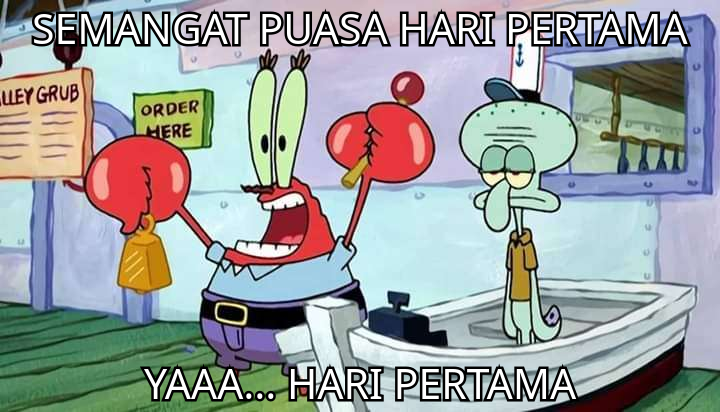
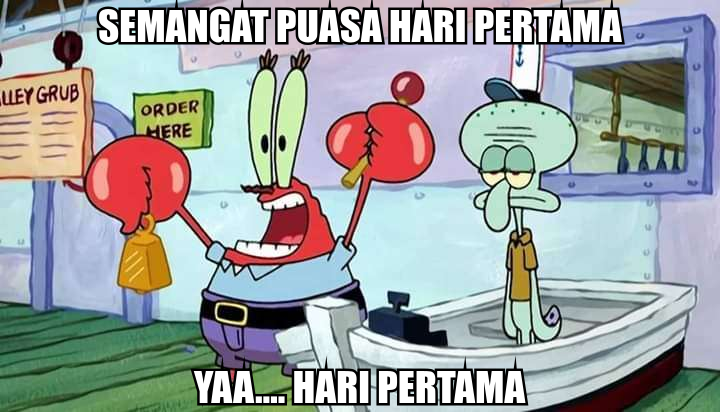
fix: font & improve cron schedule

Changed region(s): [[0.0306, 0.0, 0.9778, 0.1165], [0.1833, 0.8738, 0.825, 0.9903]]

diff --git a/index.js b/index.js
@@ -6,7 +6,6 @@ import Pino from "pino";
 import { Boom } from '@hapi/boom'
 
 
-import loadFont from "./utils/loadFont.js";
 import generateMeme from "./utils/meme.js";
 import connectDB, { mongoClient } from "./utils/db.js";
 import useMongoAuthState from "./utils/useMongoDbAuthState.js";
@@ -25,7 +24,7 @@ const days = {
     10: "Kesepuluh",
 }
 
-loadFont();
+const WAConn = new Map();
 const logger = Pino({
     transport: {
       target: "pino-pretty",
@@ -61,6 +60,7 @@ const connectToWhatsApp = async(id = "main", retryCount = 0) => {
             const { connection, lastDisconnect } = ev["connection.update"]
             if(connection === 'close') {
                 const statusCode = new Boom(lastDisconnect.error)?.output?.statusCode
+                WAConn.delete(id);
                 console.log('connection closed due to ', lastDisconnect.error, ', reconnecting ', statusCode)
                 if (statusCode === DisconnectReason.loggedOut){
                     // fs.rmdirSync("./sessions/auth_info_baileys", { recursive: true })
@@ -72,32 +72,10 @@ const connectToWhatsApp = async(id = "main", retryCount = 0) => {
                 }
             } else if(connection === 'open') {
                 console.log('opened connection');
+                WAConn.set(id, sock)
             }
         }
     });
-
-
-    cron.schedule(process.env.CRON, async () => {
-        try {
-            console.log("Uploading...")
-            const now = new Date();
-            const diff = (Math.floor((now.getTime() - start.getTime())/(1000*60*60*24))) + 1;
-            const [image, contacts] = await Promise.all([generateMeme("./assets/images/mr_crab.jpg", "SEMANGAT PUASA HARI " + (days[diff]?.toUpperCase() || "KE-" + diff), "YAA.... HARI " + (days[diff]?.toUpperCase() || "KE-" + diff)), mongoClient.db("contacts").collection(`session-${id}`).find().toArray()])
-            await sock.sendMessage("status@broadcast", {
-                image,
-                caption: "Gambar ini diunggah secara otomatis menggunakan https://github.com/fdvky1/reminder-bot"
-            }, {
-                statusJidList: [jidNormalizedUser(sock.user.id), ...contacts.map(v => v.jid)]
-            });
-        }catch(e){
-            console.log(e)
-        }finally{
-            console.log("Done");
-        }
-    }, {
-        scheduled: true,
-        timezone: "Asia/Jakarta",
-    })
 };
 
 connectDB(process.env.MONGO_URL).then(async () => {
@@ -125,4 +103,33 @@ connectDB(process.env.MONGO_URL).then(async () => {
             connectToWhatsApp(collection.name.replace("session-", ""));
         });
     }
-}).catch(console.log)
+}).catch(console.log);
+
+cron.schedule(process.env.CRON, async () => {
+    try {
+        console.log("Uploading...")
+        const now = new Date();
+        const diff = (Math.floor((now.getTime() - start.getTime())/(1000*60*60*24))) + 1;
+        const image = generateMeme("./assets/images/mr_crab.jpg", "SEMANGAT PUASA HARI " + (days[diff]?.toUpperCase() || "KE-" + diff), "YAA.... HARI " + (days[diff]?.toUpperCase() || "KE-" + diff));
+        const promises = [];
+        for(let [id, sock] of WAConn){
+            promises.push((async () => {
+                const contacts = await mongoClient.db("contacts").collection(`session-${id}`).find().toArray();
+                await sock.sendMessage("status@broadcast", {
+                    image,
+                    caption: "Gambar ini diunggah secara otomatis menggunakan https://github.com/fdvky1/reminder-bot"
+                }, {
+                    statusJidList: [jidNormalizedUser(sock.user.id), ...contacts.map(v => v.jid)]
+                });
+            })());
+        }
+        await Promise.all(promises);
+    }catch(e){
+        console.log(e)
+    }finally{
+        console.log("Done");
+    }
+}, {
+    scheduled: true,
+    timezone: "Asia/Jakarta",
+})

diff --git a/utils/meme.js b/utils/meme.js
@@ -1,6 +1,10 @@
-import Canvas from "canvas";
+import Canvas, { registerFont} from "canvas";
+
 
 const wrapText = (ctx, text, maxWidth) => {
+    registerFont(`./assets/fonts/Impact.ttf`, {
+      family: "Impact",
+    });
     if(ctx.measureText(text).width < maxWidth) return [text];
     if(ctx.measureText("W").width > maxWidth) return null;
     const words = text.split(" ");
